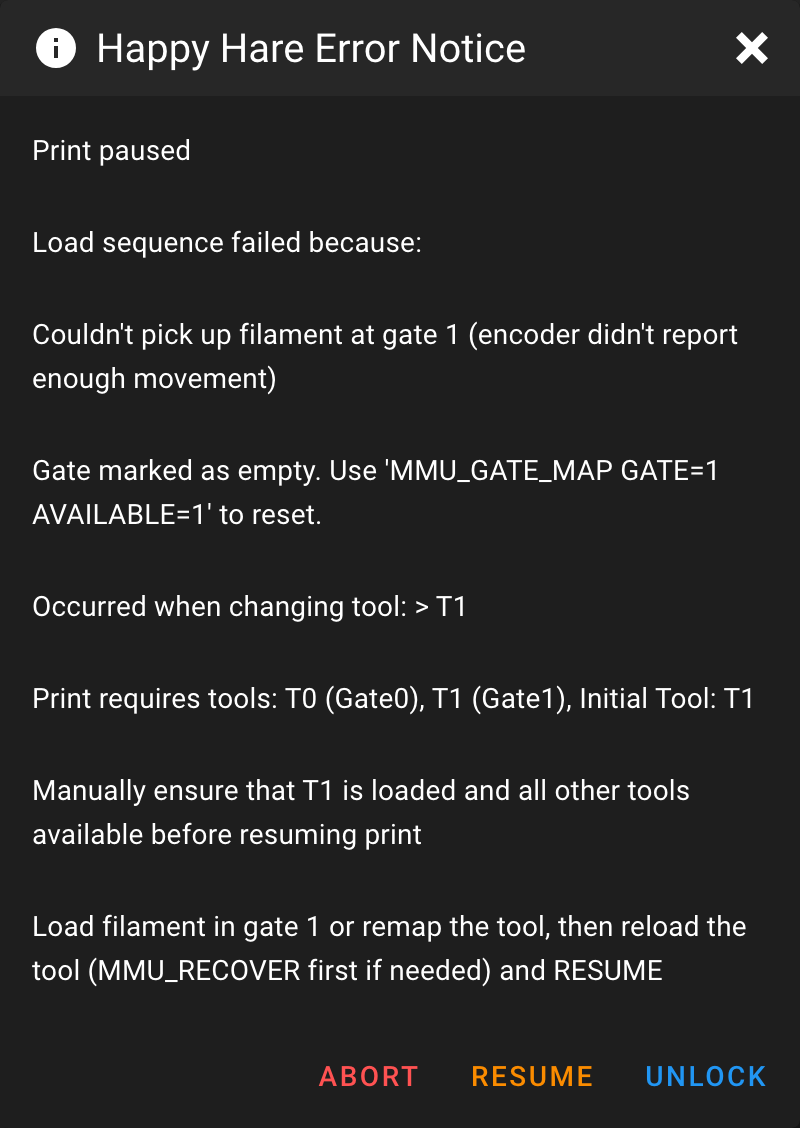
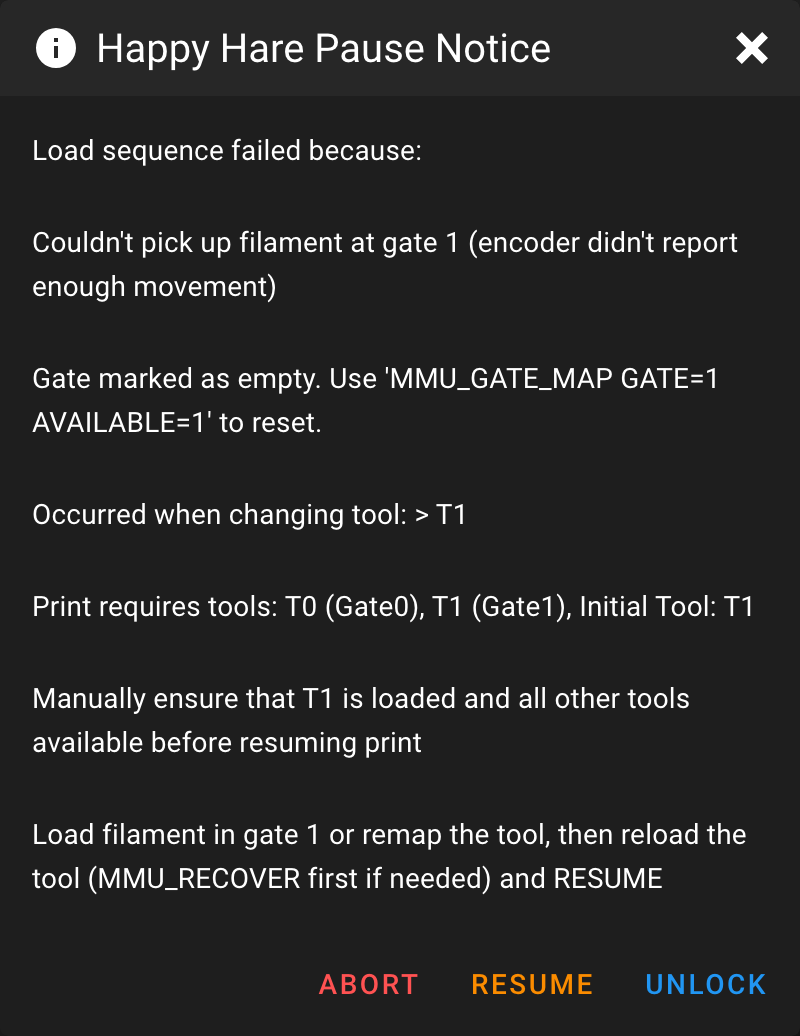
docs(pause): new dialog title, no headline on a fresh pause, title and still_paused variables

diff --git a/doc/Operation.md b/doc/Operation.md
@@ -255,15 +255,16 @@ graph TD
 ### The Pause Dialog
 
 When the MMU pauses and `show_error_dialog: 1` (the default), Mainsail, Fluidd
-and KlipperScreen pop up a dialog titled **Happy Hare Error Notice**. The same
+and KlipperScreen pop up a dialog titled **Happy Hare Pause Notice**. The same
 information is always written to the console, so nothing is lost if your
 interface doesn't support dialogs. From top to bottom it shows:
 
-1. **A headline**, normally `Print paused`.
-2. **The reason**, one dialog line per line of the error message.
-3. **Any extra lines** the start-of-print macros add - for example, the tools
+1. **The reason**, one dialog line per line of the error message. If the dialog
+   is shown again because the print is still paused (see below), it is
+   preceded by the headline `Print is still paused`.
+2. **Any extra lines** the start-of-print macros add - for example, the tools
    the print needs and which gate each one maps to.
-4. **The action line** - what to do next. Where the error knows what is
+3. **The action line** - what to do next. Where the error knows what is
    likely to fix it, this is that specific advice, such as which gate to check;
    otherwise it is the generic reminder to press `RESUME` once the problem is
    fixed (`UNLOCK` restores the nozzle temperature first). It is last because
@@ -271,7 +272,7 @@ interface doesn't support dialogs. From top to bottom it shows:
    [Troubleshooting](#troubleshooting-the-dialog)).
 
 <p align="center">
-  <img src="Operation/pause-dialog.png" alt="Happy Hare Error Notice dialog in Mainsail after a failed load" width="50%">
+  <img src="Operation/pause-dialog.png" alt="Happy Hare Pause Notice dialog in Mainsail after a failed load" width="50%">
 </p>
 
 Along the bottom are the buttons. `UNLOCK` is usually the first step, as it gets the nozzle hot again while you work:
@@ -290,12 +291,12 @@ During print start the dialog also lists the tools the print needs, and adds an
 reasonable choice. The tool lines come before the action line, which stays last:
 
 <p align="center">
-  <img src="Operation/pause-dialog-print-start.png" alt="Happy Hare Error Notice dialog in Mainsail during print start, with the required tools listed and an Abort button" width="50%">
+  <img src="Operation/pause-dialog-print-start.png" alt="Happy Hare Pause Notice dialog in Mainsail during print start, with the required tools listed and an Abort button" width="50%">
 </p>
 
 If `RESUME` is refused because the MMU still finds a problem - the filament
 is still not where it should be, say - the dialog is shown again with the
-headline `Print is still paused` and the new reason. Fix that and press
+headline `Print is still paused` above the new reason. Fix that and press
 `RESUME` again.
 
 The action line is also the `pause_hint` field of

diff --git a/doc/Macro-Customization.md b/doc/Macro-Customization.md
@@ -139,23 +139,25 @@ Happy Hare calls the macro whenever the MMU pauses, with two parameters:
 
 | Parameter | Meaning |
 |---|---|
-| `MSG` | The headline - `Print paused`, or `Print is still paused` when a `RESUME` was refused |
+| `MSG` | The headline - `Print paused`, or `Print is still paused` when a `RESUME` was refused. The shipped macro shows it only in the second case (see `still_paused` below) |
 | `REASON` | The reason for the pause as a single flat line of text, for UIs that can only show one |
 
-It also sets two variables on the macro just before the call, and clears them
+It also sets three variables on the macro just before the call, and clears them
 straight afterwards. Treat these as read-only:
 
 | Variable | Meaning |
 |---|---|
 | `reason_lines` | The reason as a list, one entry per dialog line. Already cleaned of characters (`"`, `;`, `\`) that would break the line when Klipper re-parses it. |
 | `action` | What to do next, when the error knows (the same text as [`pause_hint`](Reference-Printer-Variables.md#printermmu)), otherwise empty |
+| `still_paused` | `True` when the dialog is being shown again because the print is still paused, such as after a refused `RESUME`; `False` for a fresh pause |
 
 ### Adding lines and the abort button
 
-Two variables are yours to set, normally with `SET_GCODE_VARIABLE`:
+Three variables are yours to set, normally with `SET_GCODE_VARIABLE`:
 
 | Variable | Default | Meaning |
 |---|---|---|
+| `title` | *(empty)* | The dialog title. Empty gives `Happy Hare Pause Notice` |
 | `custom_msg` | *(empty)* | A list of extra lines shown after the reason. When set and there is no `action`, these replace the generic "After fixing, press RESUME..." line. |
 | `show_abort` | `False` | Add an `ABORT` button that runs `CANCEL_PRINT` |
 
@@ -164,8 +166,8 @@ tools the print needs and offer to abort, and clears them again once the
 print begins. If you set them from your own start macro, clear them the
 same way or they will appear on later pauses.
 
-The dialog is laid out as headline, `reason_lines`, `custom_msg`, then
-`action`, followed by the `UNLOCK`, `RESUME` and (if enabled) `ABORT` buttons.
+The dialog is laid out as the `MSG` headline (only when `still_paused`),
+`reason_lines`, `custom_msg`, then `action`, followed by the `UNLOCK`, `RESUME` and (if enabled) `ABORT` buttons.
 Keep the most important line last: stock KlipperScreen shows only the last
 text line.
 
